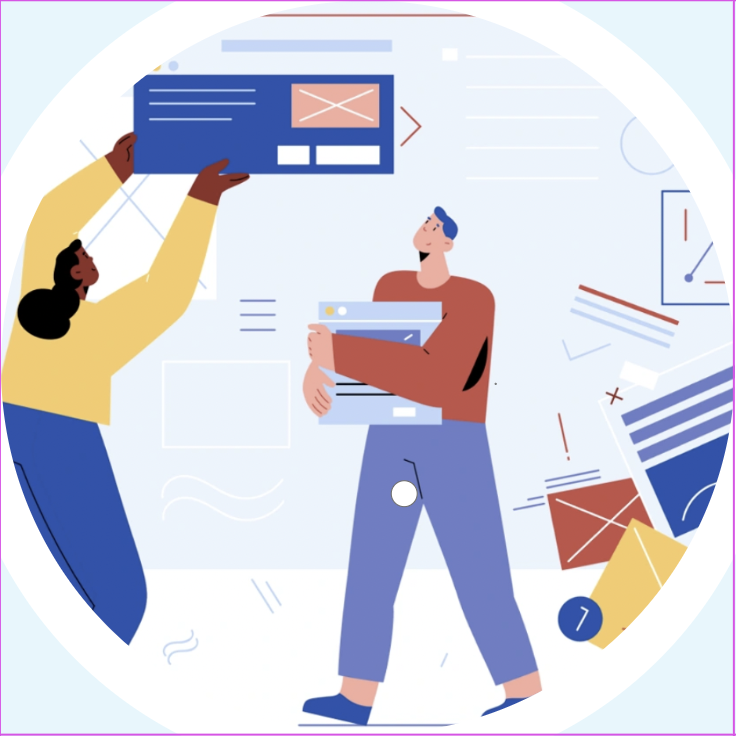
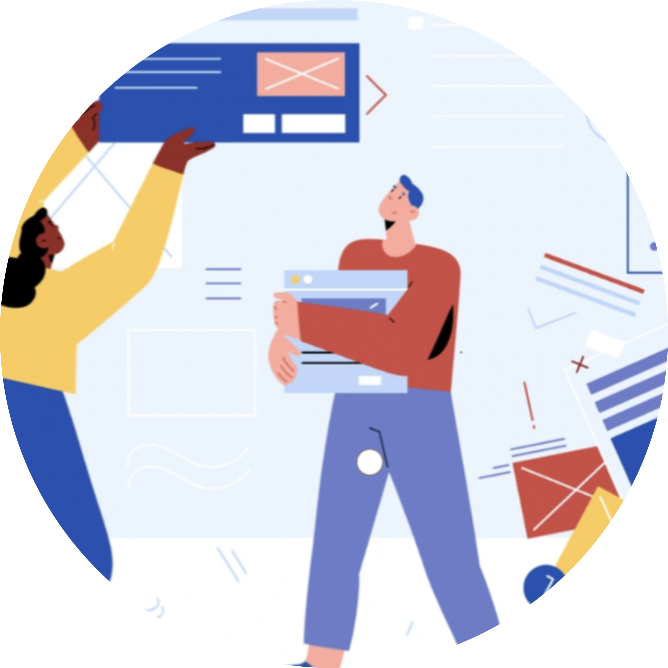
Login page designed

diff --git a/src/pages/login/Login.tsx b/src/pages/login/Login.tsx
@@ -1,0 +1,44 @@
+import React, { useState } from 'react';
+import './Login.css';
+import LoginInputField from '../../components/LoginInputField/LoginInputField';
+
+const Login: React.FC = () => {
+  const [username, setUsername] = useState('');
+  const [password, setPassword] = useState('');
+
+  return (
+    <>
+      <div className='full-screen'>
+        <div className='row'>
+          <div className='column center login-image-column'>
+            <div className='circle login-image-circle'>
+              <img src='/assets/img/banner.png' alt='Login banner image' />
+            </div>
+          </div>
+          <div className='column center'>
+            <form className='login-form' action='/'>
+              <img src='/assets/img/kv-logo.png' alt='KeyValue Logo' />
+              <LoginInputField
+                id='usernameInputField'
+                label='Username'
+                type='text'
+                value={username}
+                onChange={setUsername}
+              />
+              <LoginInputField
+                id='passwordInputField'
+                label='Password'
+                type='password'
+                value={password}
+                onChange={setPassword}
+              />
+              <button className='btn btn-primary'>Login</button>
+            </form>
+          </div>
+        </div>
+      </div>
+    </>
+  );
+};
+
+export default Login;

diff --git a/src/styles/global.css b/src/styles/global.css
@@ -1,19 +1,70 @@
-html,
-body {
+* {
   margin: 0;
   padding: 0;
-  font-family: -apple-system, BlinkMacSystemFont, "Segoe UI", Roboto, "Helvetica Neue", Arial, "Noto Sans",
-    "Liberation Sans", sans-serif, "Apple Color Emoji", "Segoe UI Emoji", "Segoe UI Symbol", "Noto Color Emoji";
-}
-
-* {
   box-sizing: border-box;
 }
 
-.app {
+html,
+body {
+  font-family: -apple-system, BlinkMacSystemFont, 'Segoe UI', Roboto, 'Helvetica Neue', Arial,
+    'Noto Sans', 'Liberation Sans', sans-serif, 'Apple Color Emoji', 'Segoe UI Emoji',
+    'Segoe UI Symbol', 'Noto Color Emoji';
+}
+
+input {
+  outline: none;
+}
+
+.full-screen {
+  width: 100vw;
+  height: 100vh;
+}
+
+.row {
+  height: 100%;
+  display: flex;
+}
+
+.column {
+  width: 100%;
+}
+
+.center {
   display: flex;
   align-items: center;
   justify-content: center;
-  font-size: 70px;
-  height: 100vh;
+}
+
+.circle {
+  border-radius: 100%;
+  overflow: hidden;
+}
+
+.btn {
+  padding: 15px 20px;
+  border-radius: 10px;
+  border: none;
+  font-size: 18px;
+  font-weight: bold;
+  transition: all 0.3s;
+  cursor: pointer;
+}
+
+.btn-primary {
+  background: #03aeee;
+  color: #fff;
+}
+
+.btn-primary:hover {
+  background: #12779c;
+}
+
+@media only screen and (max-width: 768px) {
+  .row {
+    display: block;
+  }
+
+  .column {
+    height: 50%;
+  }
 }

diff --git a/src/components/LoginInputField/LoginInputField.css b/src/components/LoginInputField/LoginInputField.css
@@ -1,0 +1,50 @@
+.login-input-field-wrapper {
+  margin-bottom: 25px;
+}
+
+.login-input-field {
+  position: relative;
+}
+
+.login-input-field label {
+  color: #8c8c8c;
+  position: absolute;
+  top: 50%;
+  left: 10px;
+  padding: 0px 5px;
+  transform: translateY(-50%);
+  transition: all 0.3s;
+  cursor: text;
+}
+
+.login-input-field input {
+  border: 1px solid #8c8c8c;
+  border-radius: 5px;
+  padding: 15px;
+  cursor: text;
+  width: 100%;
+  box-sizing: border-box;
+  font-size: 14px;
+}
+
+.login-input-field input:focus {
+  border-color: #03aeee !important;
+}
+
+.login-input-field input:focus + label,
+.login-input-field input:not(:placeholder-shown) + label {
+  color: #03aeee;
+  top: 0px;
+  background: #fff;
+  font-size: 14px;
+}
+
+.login-input-field input:not(:placeholder-shown):not(:focus) + label {
+  color: #8c8c8c;
+}
+
+.login-input-field-wrapper p {
+  margin-top: 5px;
+  color: red;
+  font-size: 14px;
+}

diff --git a/src/components/LoginInputField/LoginInputField.tsx b/src/components/LoginInputField/LoginInputField.tsx
@@ -1,0 +1,31 @@
+import { FC } from 'react';
+import './LoginInputField.css';
+
+interface LoginInputFieldProps {
+  id: string;
+  label: string;
+  type: 'text' | 'password';
+  value: string;
+  error?: string;
+  onChange: (value: string) => void;
+}
+
+const LoginInputField: FC<LoginInputFieldProps> = ({ id, label, type, value, onChange, error }) => {
+  const handleChange = (e: any) => {
+    onChange(e.target.value);
+  };
+
+  return (
+    <>
+      <div className='login-input-field-wrapper'>
+        <div className='login-input-field'>
+          <input onChange={handleChange} placeholder='' {...{ id, type, value }} />
+          <label htmlFor={id}>{label}</label>
+        </div>
+        {error && <p>{error}</p>}
+      </div>
+    </>
+  );
+};
+
+export default LoginInputField;

diff --git a/src/pages/login/Login.css b/src/pages/login/Login.css
@@ -1,0 +1,37 @@
+.login-image-column {
+  background: #e5f8ff;
+}
+
+.login-image-circle {
+  width: 500px;
+  height: 500px;
+  background: #fff;
+  padding: 20px;
+}
+
+.login-image-circle img {
+  width: 101%;
+  height: 101%;
+}
+
+.login-form {
+  width: 400px;
+}
+
+.login-form img {
+  width: 50%;
+  display: flex;
+  flex-direction: column;
+  margin-bottom: 25px;
+}
+
+.login-form .btn {
+  width: 100%;
+}
+
+@media only screen and (max-width: 768px) {
+  .login-image-circle {
+    width: 250px;
+    height: 250px;
+  }
+}

diff --git a/src/app.tsx b/src/app.tsx
@@ -1,8 +1,13 @@
 import type { FC } from 'react';
 import './styles/global.css';
+import Login from './pages/login/Login';
 
 const App: FC = () => {
-  return <div className='app'>Hello World</div>;
+  return (
+    <>
+      <Login />
+    </>
+  );
 };
 
 export default App;
